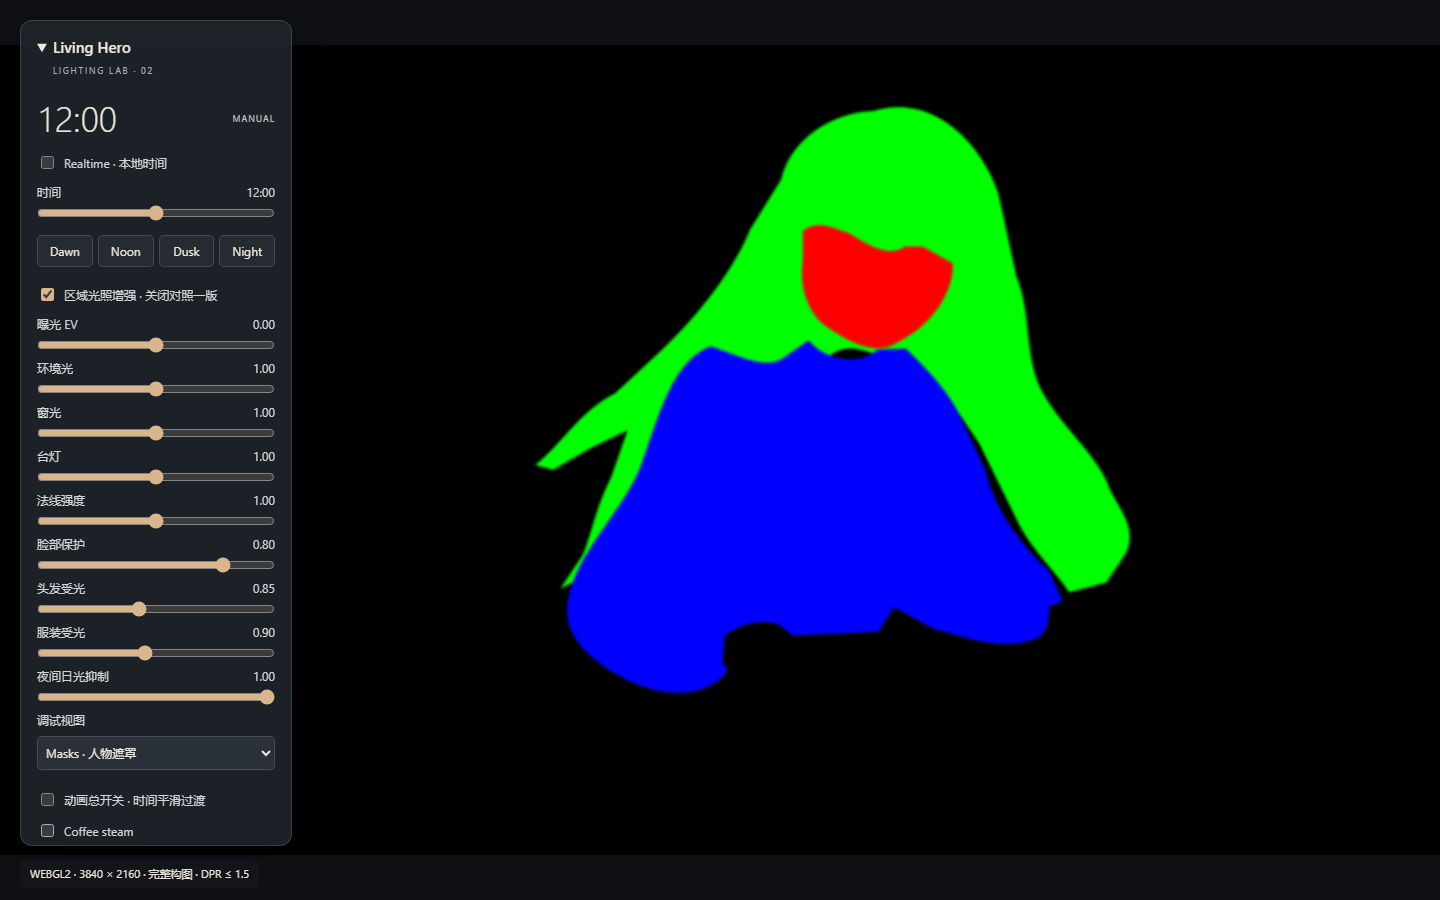
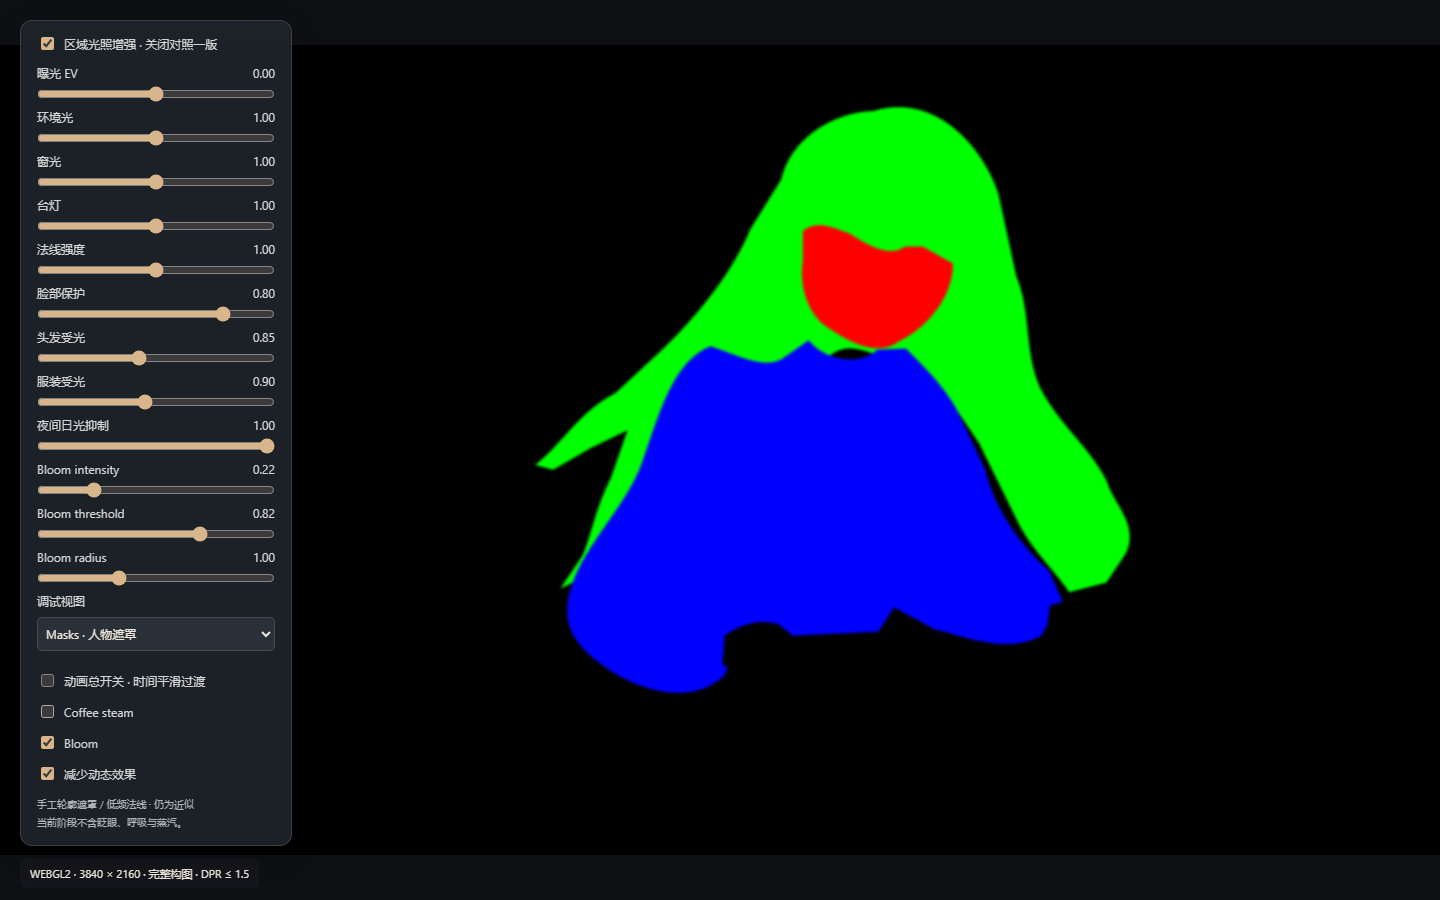
feat: add restrained bloom post-processing

Changed region(s): [[0.0, 0.0311, 0.1875, 0.9333]]

diff --git a/src/engine/renderer.ts b/src/engine/renderer.ts
@@ -2,8 +2,9 @@ import { loadAssets, type AssetOptions } from './assets';
 import { lightingAt } from './lighting';
 import { Timeline } from './timeline';
 import { vertex, fragment } from './shaders';
-export type DebugView = 'final' | 'base' | 'normal' | 'masks' | 'lighting' | 'scene' | 'overlay';
-export interface Settings { exposure: number; ambient: number; sun: number; lamp: number; normal: number; face: number; hair: number; cloth: number; night: number; refinement: number }
+import { createBloom } from './postprocessing';
+export type DebugView = 'final' | 'base' | 'normal' | 'masks' | 'lighting' | 'scene' | 'overlay' | 'bright' | 'bloom';
+export interface Settings { exposure: number; ambient: number; sun: number; lamp: number; normal: number; face: number; hair: number; cloth: number; night: number; refinement: number; bloom: number; bloomThreshold: number; bloomRadius: number }
 export interface HeroState { minutes: number; target: number; realtime: boolean; reducedMotion: boolean; animation: boolean; steam: boolean; view: DebugView }
 export interface HeroOptions extends AssetOptions { time?: number; onUpdate?: (state: HeroState) => void; onError?: (message: string) => void }
 export async function createLivingHero(canvas: HTMLCanvasElement, options: HeroOptions = {}) {
@@ -43,13 +44,17 @@ export async function createLivingHero(canvas: HTMLCanvasElement, options: HeroO
   ['uBase','uNormal','uMask','uSceneMask'].forEach((name,i)=>gl.uniform1i(loc(name),i));
   gl.uniform1i(loc('uHasNormal'),Number(!!assets.normal)); gl.uniform1i(loc('uHasMask'),Number(!!assets.mask));
   gl.uniform1i(loc('uHasSceneMask'),Number(!!assets.sceneMask));
+  gl.uniform1i(loc('uBloomMap'),4);
+  let post: ReturnType<typeof createBloom>;
+  try { post=createBloom(gl); } catch(error) { cleanup(); throw error; }
   const timeline = new Timeline(options.time ?? 720);
-  const settings: Settings = { exposure: 0, ambient: 1, sun: 1, lamp: 1, normal: 1, face: 0.8, hair: 0.85, cloth: 0.9, night: 1, refinement: 1 };
+  const settings: Settings = { exposure: 0, ambient: 1, sun: 1, lamp: 1, normal: 1, face: 0.8, hair: 0.85, cloth: 0.9, night: 1, refinement: 1, bloom: 0.22, bloomThreshold: 0.82, bloomRadius: 1 };
   const media = matchMedia('(prefers-reduced-motion: reduce)');
   let reducedMotion = media.matches, animation = true, steam = true, view: DebugView = 'final';
   let frame = 0, timer = 0, destroyed = false, lost = false, previous = performance.now(), lastNotify = -Infinity;
   const state = (): HeroState => ({ minutes: timeline.minutes, target: timeline.target, realtime: timeline.realtime, reducedMotion, animation, steam, view });
   function render(now = performance.now()) {
+    gl.useProgram(program);
     const dpr = Math.min(devicePixelRatio || 1,1.5);
     const w=Math.max(1,Math.round(canvas.clientWidth*dpr)),h=Math.max(1,Math.round(canvas.clientHeight*dpr));
     if(canvas.width!==w||canvas.height!==h) { canvas.width=w; canvas.height=h; }
@@ -63,8 +68,18 @@ export async function createLivingHero(canvas: HTMLCanvasElement, options: HeroO
     gl.uniform1f(loc('uMotionTime'), now / 1000);
     gl.uniform1f(loc('uSteam'), Number(steam && animation && !reducedMotion));
     gl.uniform1f(loc('uNight'),light.night);
-    for(const [key,name] of Object.entries({exposure:'uExposure',ambient:'uAmbientStrength',sun:'uSunStrength',lamp:'uLampStrength',normal:'uNormalStrength',face:'uFace',hair:'uHair',cloth:'uCloth',night:'uNightStrength',refinement:'uRefinement'})) gl.uniform1f(loc(name),settings[key as keyof Settings]);
-    gl.uniform1i(loc('uView'),['final','base','normal','masks','lighting','scene','overlay'].indexOf(view));
+    gl.uniform1f(loc('uBloomMood'),.12+.88*Math.max(light.night,light.lamp));
+    for(const [key,name] of Object.entries({exposure:'uExposure',ambient:'uAmbientStrength',sun:'uSunStrength',lamp:'uLampStrength',normal:'uNormalStrength',face:'uFace',hair:'uHair',cloth:'uCloth',night:'uNightStrength',refinement:'uRefinement',bloom:'uBloom',bloomThreshold:'uBloomThreshold',bloomRadius:'uBloomRadius'})) gl.uniform1f(loc(name),settings[key as keyof Settings]);
+    gl.uniform1i(loc('uView'),['final','base','normal','masks','lighting','scene','overlay','bright','bloom'].indexOf(view));
+    const bloomActive=(view==='final'&&settings.bloom>0)||view==='bright'||view==='bloom';
+    if(bloomActive) {
+      post.begin(vw,vh);
+      gl.uniform1i(loc('uView'),7); gl.drawArrays(gl.TRIANGLES,0,3);
+      post.finish(settings.bloomRadius*dpr);
+      gl.useProgram(program);
+      gl.viewport(Math.round((w-vw)/2),Math.round((h-vh)/2),vw,vh);
+      gl.uniform1i(loc('uView'),view==='bright'?7:view==='bloom'?8:0);
+    }
     gl.drawArrays(gl.TRIANGLES,0,3);
   }
   function tick(now: number) {
@@ -94,12 +109,12 @@ export async function createLivingHero(canvas: HTMLCanvasElement, options: HeroO
         if(!Number.isFinite(value)) continue;
         const k=key as keyof Settings;
         if (!(k in settings)) continue;
-        settings[k]=Math.max(k==='exposure'?-1:0,Math.min(['face','night','refinement'].includes(k)?1:2,value));
+        settings[k]=Math.max(k==='exposure'?-1:k==='bloomThreshold'?.4:0,Math.min(['face','night','refinement'].includes(k)?1:k==='bloomThreshold'?1:2,value));
       }
       wake();
     },
     getState: state,
-    destroy() { if(destroyed)return; destroyed=true; cancelAnimationFrame(frame); clearTimeout(timer); observer.disconnect(); document.removeEventListener('visibilitychange',visibility); media.removeEventListener('change',motion); canvas.removeEventListener('webglcontextlost',contextLost); cleanup(); },
+    destroy() { if(destroyed)return; destroyed=true; cancelAnimationFrame(frame); clearTimeout(timer); observer.disconnect(); document.removeEventListener('visibilitychange',visibility); media.removeEventListener('change',motion); canvas.removeEventListener('webglcontextlost',contextLost); post.destroy(); cleanup(); },
   };
 }
 export type LivingHero = Awaited<ReturnType<typeof createLivingHero>>;

diff --git a/src/engine/postprocessing.ts b/src/engine/postprocessing.ts
@@ -1,0 +1,70 @@
+import { vertex } from './shaders';
+
+// Render targets use bottom-left texture coordinates; the artwork uses top-left.
+const blur = `#version 300 es
+precision highp float;
+in vec2 uv;
+out vec4 color;
+uniform sampler2D image;
+uniform vec2 stepUV;
+void main() {
+  vec2 p=vec2(uv.x,1.0-uv.y);
+  vec3 c=texture(image,p).rgb*.227027;
+  c+=(texture(image,p+stepUV*1.384615).rgb+texture(image,p-stepUV*1.384615).rgb)*.316216;
+  c+=(texture(image,p+stepUV*3.230769).rgb+texture(image,p-stepUV*3.230769).rgb)*.070270;
+  color=vec4(c,1);
+}`;
+
+export function createBloom(gl: WebGL2RenderingContext) {
+  const textures: WebGLTexture[] = [], buffers: WebGLFramebuffer[] = [], shaders: WebGLShader[] = [];
+  const program=gl.createProgram()!;
+  let width=0, height=0;
+  const destroy=()=>{
+    textures.forEach(t=>gl.deleteTexture(t)); buffers.forEach(b=>gl.deleteFramebuffer(b));
+    shaders.forEach(s=>gl.deleteShader(s)); gl.deleteProgram(program);
+  };
+  try {
+    for(const [type,source] of [[gl.VERTEX_SHADER,vertex],[gl.FRAGMENT_SHADER,blur]] as const) {
+      const shader=gl.createShader(type)!; shaders.push(shader);
+      gl.shaderSource(shader,source); gl.compileShader(shader);
+      if(!gl.getShaderParameter(shader,gl.COMPILE_STATUS)) throw new Error(gl.getShaderInfoLog(shader) ?? 'Bloom compile failed');
+      gl.attachShader(program,shader);
+    }
+    gl.linkProgram(program);
+    if(!gl.getProgramParameter(program,gl.LINK_STATUS)) throw new Error('Bloom link failed');
+    for(let i=0;i<3;i++) { textures.push(gl.createTexture()!); buffers.push(gl.createFramebuffer()!); }
+  } catch(error) { destroy(); throw error; }
+  const step=gl.getUniformLocation(program,'stepUV');
+  const bind=(i:number)=>{ gl.bindFramebuffer(gl.FRAMEBUFFER,buffers[i]); gl.viewport(0,0,width,height); };
+  return {
+    begin(w:number,h:number) {
+      const nw=Math.max(1,Math.ceil(w/4)),nh=Math.max(1,Math.ceil(h/4));
+      gl.activeTexture(gl.TEXTURE4);
+      if(nw!==width||nh!==height) {
+        width=nw; height=nh;
+        textures.forEach((t,i)=>{
+          gl.bindTexture(gl.TEXTURE_2D,t);
+          gl.texParameteri(gl.TEXTURE_2D,gl.TEXTURE_MIN_FILTER,gl.LINEAR);
+          gl.texParameteri(gl.TEXTURE_2D,gl.TEXTURE_MAG_FILTER,gl.LINEAR);
+          gl.texParameteri(gl.TEXTURE_2D,gl.TEXTURE_WRAP_S,gl.CLAMP_TO_EDGE);
+          gl.texParameteri(gl.TEXTURE_2D,gl.TEXTURE_WRAP_T,gl.CLAMP_TO_EDGE);
+          gl.texImage2D(gl.TEXTURE_2D,0,gl.RGBA8,width,height,0,gl.RGBA,gl.UNSIGNED_BYTE,null);
+          bind(i); gl.framebufferTexture2D(gl.FRAMEBUFFER,gl.COLOR_ATTACHMENT0,gl.TEXTURE_2D,t,0);
+          if(gl.checkFramebufferStatus(gl.FRAMEBUFFER)!==gl.FRAMEBUFFER_COMPLETE) throw new Error('Bloom framebuffer incomplete');
+        });
+      }
+      gl.bindTexture(gl.TEXTURE_2D,null); bind(0);
+    },
+    finish(radius:number) {
+      gl.useProgram(program); gl.uniform1i(gl.getUniformLocation(program,'image'),4);
+      for(let i=1;i<=2;i++) {
+        bind(i); gl.activeTexture(gl.TEXTURE4); gl.bindTexture(gl.TEXTURE_2D,textures[i-1]);
+        gl.uniform2f(step,i===1?radius/width:0,i===2?radius/height:0);
+        gl.drawArrays(gl.TRIANGLES,0,3);
+      }
+      gl.bindFramebuffer(gl.FRAMEBUFFER,null);
+      gl.bindTexture(gl.TEXTURE_2D,textures[2]);
+    },
+    destroy,
+  };
+}

diff --git a/src/debug-ui/panel.ts b/src/debug-ui/panel.ts
@@ -28,11 +28,24 @@ export function createPanel(root: HTMLElement, engine: LivingHero) {
   realtime.addEventListener('change',()=>engine.setRealtime(realtime.checked));
   root.querySelectorAll<HTMLButtonElement>('[data-time]').forEach(button=>button.addEventListener('click',()=>{ engine.setTime(Number(button.dataset.time)); time.value=button.dataset.time!; realtime.checked=false; }));
   query<HTMLSelectElement>('#view').addEventListener('change',event=>engine.setDebugView((event.target as HTMLSelectElement).value as DebugView));
+  const view = query<HTMLSelectElement>('#view');
+  view.insertAdjacentHTML('beforeend', '<option value="bright">Bright Pass</option><option value="bloom">Bloom Only</option>');
   const steam = document.createElement('label');
   steam.className = 'check';
   steam.innerHTML = '<input id="steam" type="checkbox" checked> Coffee steam';
   query('#animation').parentElement!.insertAdjacentElement('afterend', steam);
   query<HTMLInputElement>('#steam').addEventListener('change',event=>engine.setSteam((event.target as HTMLInputElement).checked));
+  const bloom = document.createElement('label');
+  bloom.className = 'check';
+  bloom.innerHTML = '<input id="bloom" type="checkbox" checked> Bloom';
+  query('#steam').parentElement!.insertAdjacentElement('afterend', bloom);
+  query<HTMLInputElement>('#bloom').addEventListener('change',event=>engine.setSettings({ bloom: (event.target as HTMLInputElement).checked ? .22 : 0 }));
+  for (const [key, label, min, max, value] of [['bloomIntensity','Bloom intensity',0,1,.22],['bloomThreshold','Bloom threshold',.4,1,.82],['bloomRadius','Bloom radius',.5,2,1]] as const) {
+    const row=document.createElement('div'); row.className='slider-row';
+    row.innerHTML=`<label for="${key}">${label}<output>${value.toFixed(2)}</output></label><input id="${key}" type="range" min="${min}" max="${max}" step="0.01" value="${value}">`;
+    row.querySelector('input')!.addEventListener('input',event=>{ const v=Number((event.target as HTMLInputElement).value); row.querySelector('output')!.value=v.toFixed(2); engine.setSettings({bloom:v} as Partial<Settings>); });
+    query('#lighting-controls').append(row);
+  }
   query<HTMLInputElement>('#animation').addEventListener('change',event=>engine.setAnimation((event.target as HTMLInputElement).checked));
   query<HTMLInputElement>('#reduced').addEventListener('change',event=>engine.setReducedMotion((event.target as HTMLInputElement).checked));
   return { update(state: HeroState) {

diff --git a/src/engine/shaders.ts b/src/engine/shaders.ts
@@ -11,6 +11,8 @@ precision highp float;
 in vec2 uv;
 out vec4 color;
 uniform sampler2D uBase, uNormal, uMask, uSceneMask;
+uniform sampler2D uBloomMap;
+uniform float uBloom, uBloomThreshold, uBloomMood;
 uniform bool uHasNormal, uHasMask, uHasSceneMask;
 uniform vec3 uAmbient, uSun, uDirection;
 uniform float uLamp, uExposure, uAmbientStrength, uSunStrength, uLampStrength, uNormalStrength, uFace;
@@ -87,6 +89,17 @@ void main() {
     float strand2 = exp(-pow((p.x+.035+sin(p.y*29.0+uMotionTime*.42)*.008)/.010, 2.0)) * smoothstep(.11,.01,p.y) * smoothstep(.0,.08,p.y);
     lit += vec3(.82,.84,.82) * (strand*.055 + strand2*.035);
   }
+  // Extract current relit highlights, suppress skin and broad white clothing.
+  float protection=(1.0-face)*(1.0-body*.98);
+  float eligibility=protection*clamp(exterior*.35+hair*.25+scene.g*.12+lampBulb,0.0,1.0);
+  if(uView==7) {
+    float luminance=dot(lit,vec3(.2126,.7152,.0722));
+    float excess=max(luminance-uBloomThreshold,0.0)/max(luminance,.0001);
+    color=vec4(clamp(lit*excess*eligibility*uBloomMood,0.0,1.0),1); return;
+  }
+  vec3 glow=texture(uBloomMap,vec2(uv.x,1.0-uv.y)).rgb*protection;
+  if(uView==8) { color=vec4(encode(glow),1); return; }
+  lit+=glow*uBloom;
   // Gentle highlight shoulder, identity below 0.8 (no filmic contrast crush).
   lit=mix(lit,.8+(1.0-exp(-(lit-.8)*5.0))*.2,step(vec3(.8),lit));
   color=vec4(encode(lit),1);

diff --git a/tests/visual/hero.visual.spec.ts b/tests/visual/hero.visual.spec.ts
@@ -13,6 +13,24 @@ test.beforeEach(async ({ page }) => {
   await page.locator('#reduced').check();
 });
 
+for (const [name, minutes] of [['dusk', 1050], ['night', 1380]] as const) {
+  test(`bloom comparison: ${name}`, async ({ page }) => {
+    await page.locator('#time').fill(String(minutes));
+    await page.locator('#time').dispatchEvent('change');
+    await page.locator('input[type="checkbox"]#bloom').uncheck();
+    await page.screenshot({ path: `docs/screenshots/phase4/${name}-bloom-off.png`, fullPage: true });
+    await page.locator('input[type="checkbox"]#bloom').check();
+    await page.screenshot({ path: `docs/screenshots/phase4/${name}-bloom-on.png`, fullPage: true });
+  });
+}
+
+for (const view of ['bright', 'bloom'] as const) {
+  test(`bloom debug: ${view}`, async ({ page }) => {
+    await page.locator('#view').selectOption(view);
+    await page.screenshot({ path: `docs/screenshots/phase4/${view}.png`, fullPage: true });
+  });
+}
+
 test('coffee steam enabled state', async ({ page }) => {
   await page.locator('#animation').check();
   await page.locator('#steam').check();

diff --git a/docs/logs/phase-next-notes.md b/docs/logs/phase-next-notes.md
@@ -1,0 +1,35 @@
+# Phase Next Notes
+
+Date: 2026-09-15
+
+## Blink status
+
+Blink renderer implementation: blocked by missing registered closed-eye asset.
+
+The Pillow/NumPy/OpenCV experiment remains documented in `docs/logs/blink-tool-only-evaluation.md`. Its candidate was rejected visually and was not promoted to a runtime asset or renderer path.
+
+## Bloom architecture
+
+Bloom is implemented as a minimal WebGL2 post-processing path. The existing relit scene is rendered through a bright-pass into quarter-resolution targets, followed by two separable Gaussian blur passes and a final composite. The scene remains framework-independent and does not use Three.js or Babylon.js. The bloom buffers are resized only when the viewport changes and are destroyed with the renderer.
+
+Bloom eligibility is intentionally conservative: the bright pass uses the current relit luminance, a high threshold, and protection terms for face and broad clothing. Hair, exterior/window highlights, lamp emitter contribution and a small scene contribution are allowed to receive the effect. Debug views expose Bright Pass and Bloom Only without replacing the existing views.
+
+## Default parameters
+
+- Bloom enabled: yes
+- Intensity: `0.22`
+- Threshold: `0.82`
+- Radius: `1.0`
+- Buffer scale: quarter resolution, capped by the current canvas render size
+
+## Visual review
+
+Playwright captured matched Dusk and Night Bloom OFF/ON screenshots. Dusk ON adds a restrained soft response around the brightest window/hair/lamp areas. Night ON adds only a small amount of lamp and local highlight separation; the cool exterior remains clean. Face structure, skin and white clothing do not become broad glowing regions. Noon remains effectively unchanged at the default settings.
+
+## Performance notes
+
+The bloom target is quarter-resolution and uses two lightweight fullscreen blur passes. The main relighting pass remains one draw, and bloom adds three draws only when enabled or when a bloom debug view is selected. DPR 1.0 and 1.5 use the same scaled quarter-resolution target strategy; a cross-GPU benchmark is still future work.
+
+## Next candidate
+
+The next low-risk task should be texture/GPU memory optimization or browser performance measurement. Breathing and hair motion remain higher visual-risk because they require registered geometry or carefully bounded local deformation. Blink must remain blocked until an official registered asset exists.

diff --git a/docs/architecture.md b/docs/architecture.md
@@ -12,6 +12,7 @@ The baseline sections below describe Phase 1, retained for the comparison path. 
 - `src/engine/shaders.ts`: full-screen triangle, registered analytic normals/masks, relighting and highlight shoulder.
 - `src/engine/assets.ts`: base and optional normal/mask loading plus dimension validation.
 - `src/engine/animation.ts`: contracts and validation for future registered micro-animation assets; blink is intentionally disabled until an exact closed-eye asset exists.
+- `src/engine/postprocessing.ts`: quarter-resolution bloom targets and separable blur passes.
 
 ## Rendering
 
@@ -68,4 +69,4 @@ The app passes `normalUrl`, `maskUrl` and `sceneMaskUrl` to the engine. `assets.
 - `setSettings({ refinement: 0 })` restores the Phase 1 analytic masks, normals and lighting behavior for comparison. `refinement: 1` restores Phase 2. Other common settings and current time are retained.
 - `setDebugView('scene')` shows the scene RGB map; `setDebugView('overlay')` blends registered region colors over the unlit base for alignment inspection.
 
-Optional maps are still optional for consumers of the engine. Without map URLs it uses analytic fallbacks; the demo app explicitly supplies all three generated maps. All original time, reduced-motion, visibility and destroy APIs remain intact.
+Optional maps are still optional for consumers of the engine. Without map URLs it uses analytic fallbacks; the demo app explicitly supplies all three generated maps. Bloom defaults to intensity 0.22, threshold 0.82 and radius 1.0, with face and broad-cloth protection. All original time, reduced-motion, visibility and destroy APIs remain intact.
